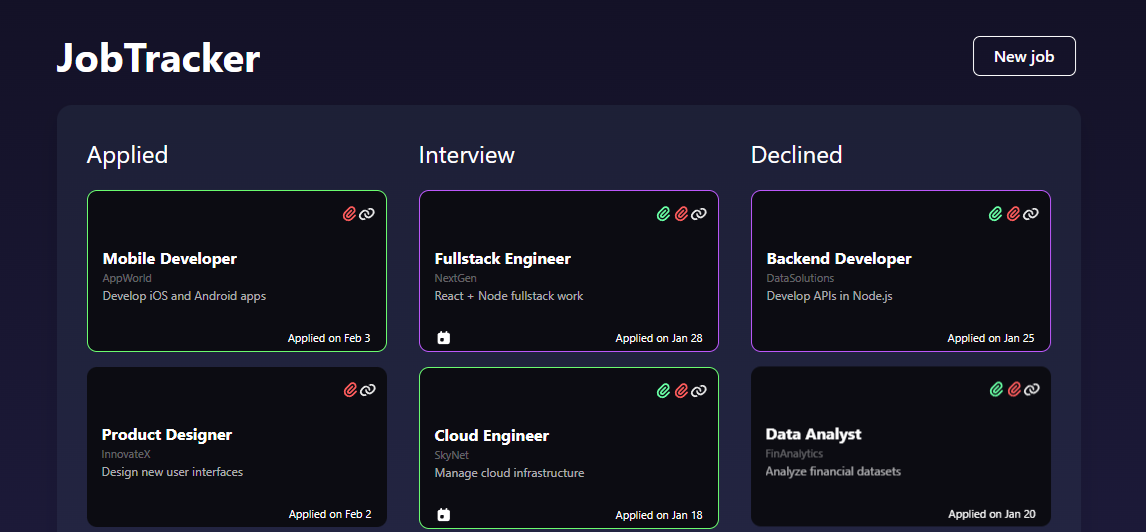
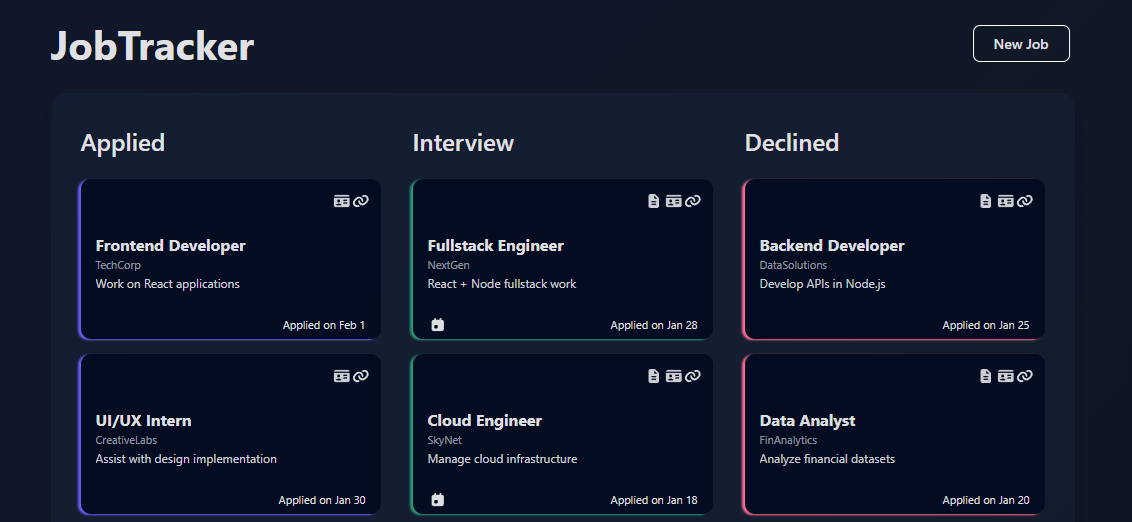
Refined color palette for a more professional look
Updated the application's color palette to achieve a cleaner and more professional visual design. Added distinct icons for CVs and cover letters to improve clarity and user experience.

diff --git a/frontend/src/components/ApplicationCard/ApplicationCard.tsx b/frontend/src/components/ApplicationCard/ApplicationCard.tsx
@@ -1,5 +1,8 @@
 import { FontAwesomeIcon } from '@fortawesome/react-fontawesome';
-import { faLink, faPaperclip, faCalendarDay } from '@fortawesome/free-solid-svg-icons';
+import { faLink, faFileLines, faIdCard, faCalendarDay } from '@fortawesome/free-solid-svg-icons';
+
+import { useState } from "react";
+
 import './ApplicationCard.css'
 import '../../styles/variables.css'
 
@@ -9,6 +12,7 @@ import '../../styles/variables.css'
  * Represents a single job application with associated metadata
  */
 type ApplicationCardProps = {
+    key: number;
     title: string;
     company: string;
     description: string;
@@ -18,6 +22,8 @@ type ApplicationCardProps = {
     cvUrl: string;
     letterUrl?: string;
     confidenceScore: number;
+    
+    onClick: () => void;
 };
 
 /**
@@ -38,9 +44,9 @@ function ApplicationCard({
     link,
     cvUrl,
     letterUrl,
-    confidenceScore
-}: ApplicationCardProps) {
-    
+    confidenceScore,
+    onClick
+}: ApplicationCardProps) {    
     // Format application date for display (e.g., "Jan 15")
     const formattedDate = new Date(applyingDate).toLocaleDateString("en-US", {
         month: "short",
@@ -58,7 +64,10 @@ function ApplicationCard({
     }
 
     return (
-    <article className={`application-card application-card--${scoreClass}`}>
+    <article 
+        className={`application-card application-card--${scoreClass}`}
+        onClick={onClick}
+    >
 
         {/* Document attachments section - links to external resources */}
         <div className={"application-card__attachments"}>
@@ -70,13 +79,13 @@ function ApplicationCard({
 
             {/* Link to uploaded CV/resume */}
             <a href={`${cvUrl}`} target="_blank">
-                <FontAwesomeIcon className="application-card__icon application-card__icon--cv" icon={faPaperclip} />
+                <FontAwesomeIcon className="application-card__icon application-card__icon--cv" icon={faIdCard} />
             </a>
 
             {/* Optional link to cover letter (if provided) */}
             {letterUrl ? (
                 <a href={`${letterUrl}`} target="_blank">
-                    <FontAwesomeIcon className="application-card__icon application-card__icon--letter" icon={faPaperclip} />
+                    <FontAwesomeIcon className="application-card__icon application-card__icon--letter" icon={faFileLines} />
                 </a>
             ) : null}
         </div>

diff --git a/frontend/src/components/ApplicationPanel/ApplicationPanel.tsx b/frontend/src/components/ApplicationPanel/ApplicationPanel.tsx
@@ -2,41 +2,32 @@ import { FontAwesomeIcon } from '@fortawesome/react-fontawesome';
 import { faLink } from '@fortawesome/free-solid-svg-icons';
 import './ApplicationPanel.css'
 import '../../styles/variables.css'
+import { Job } from '../../types/job';
 
 type ApplicationPanelProps = {
-    title:string;
-    company:string;
-    link:string;
-    status:string;
-    confidenceScore:number;
-    date:string;
+    job: Job;
 }
 
 function ApplicationPanel ({
-    title,
-    company,
-    link,
-    status,
-    confidenceScore,
-    date
+    job
 }:ApplicationPanelProps) {
 
     return (
         <div className="application-panel">
             <div className="application-panel__header">
                 <div className="application-panel__identity">
-                    <a href={`${link}`}>
+                    <a href={`${job.link}`}>
                         <FontAwesomeIcon className="application-panel__icon application-panel__icon--link" icon={faLink} />
                     </a>
                     <div className="application-panel__meta">
-                        <h2 className="application-panel__title">{title}</h2>
-                        <p className="application-panel__company">{company}</p>
+                        <h2 className="application-panel__title">{job.title}</h2>
+                        <p className="application-panel__company">{job.company}</p>
                     </div>
                 </div>
                 <div className="application-panel__line">
                     <span className="application-panel__badge">
-                        <p className="application-panel__status">{status}</p>
-                        <p className="application-panel__confidence">Confidence <b>{confidenceScore}%</b></p>
+                        <p className="application-panel__status">{job.status}</p>
+                        <p className="application-panel__confidence">Confidence <b>{job.confidenceScore}%</b></p>
                     </span>
                 </div>
             </div>
@@ -72,7 +63,7 @@ function ApplicationPanel ({
             </div>
             
             <div className="application-panel__footer">
-                <p className="application-panel__date">{date}</p>
+                <p className="application-panel__date">{job.applyingDate}</p>
             </div>
 
 

diff --git a/frontend/src/App.tsx b/frontend/src/App.tsx
@@ -6,10 +6,10 @@ import { mapJobFromApi } from './mappers/jobMapper'
 import './App.css'
 import ApplicationPanel from './components/ApplicationPanel/ApplicationPanel'
 
-
-function App() {
+const App = () => {
     const[jobs, setJobs] = useState<Job[]>([]);
     const[formVisible, setFormVisible] = useState(false)
+    const[selectedJob, setSelectedJob] = useState<number | null>(null)
 
       useEffect(() => {
           fetch('http://localhost:3000/api')
@@ -27,8 +27,21 @@ function App() {
         { id: 3, title: 'Declined', status: 'Declined' }
     ];
 
+  const handleSelectJob = (id: number) => {
+      setSelectedJob(id);
+  };
+
   return (
     <div>
+        {selectedJob && (
+          <>
+            <div className="blur-overlay" onClick={() => setSelectedJob(null)}></div>
+            <ApplicationPanel
+              job = {jobs.find(job => job.id === selectedJob)!}
+            />
+          </>
+        )}
+
         {formVisible && (
           <>
             <div className="blur-overlay" onClick={() => setFormVisible(false)}></div>
@@ -52,6 +65,8 @@ function App() {
                   title={column.title}
                   status={column.status}
                   jobs={jobs}
+
+                  onSelectJob={handleSelectJob}
               />
             ))
           }

diff --git a/frontend/src/styles/variables.css b/frontend/src/styles/variables.css
@@ -1,27 +1,35 @@
 :root{
 
-  --color-bg-start: #131126;
-  --color-bg-end: rgb(37 34 80 / 0.89);;
-
+  /*--color-bg-start: #131126;
+  --color-bg-end: rgb(37 34 80 / 0.89);*/
+  --color-bg-start: #0f172a;
+  --color-bg-middle: #111827;
+  --color-bg-end: #0b1120;
+    
   --color-text-primary: rgb(255 255 255 / 0.87);
   --color-text-secondary: rgb(255 255 255 / 0.80);
   --color-text-muted: rgb(255 255 255 / 0.55);
 
-  --color-surface-form: #100F17;
-  --color-surface-primary: #171621;
-  --color-surface-secondary: #232233;
+  --color-surface-form: #040c21;
+  --color-surface-primary: #151c2d75;
+  --color-surface-secondary: #232e4975;
   --color-surface-tertiary: #313145;
+
+  --color-surface-kanban: #3653731c;
 
   --color-input-text: #D2D1D4;
 
   --color-border-subtle: #92929228;
 
-  --color-attachment-cv: #ff6a93;
-  --color-attachment-letter: #83d1ff;
+  --color-attachment-cv: rgb(255 255 255 / 0.80);
+  --color-attachment-letter: rgb(255 255 255 / 0.80);
 
-  --color-confidence-good: 114 255 119;
-  --color-confidence-high: 137 63 255;
+  /*--color-confidence-good: 114 255 119;
+  --color-confidence-high: 137 63 255;*/
 
   --shadow-card: 0 6px 18px rgba(0,0,0,0.15);
 
 }
+
+
+

diff --git a/frontend/src/components/StatusColumn/StatusColumn.tsx b/frontend/src/components/StatusColumn/StatusColumn.tsx
@@ -6,9 +6,10 @@ type StatusColumnProps = {
     title: string;
     status: string;
     jobs: Job[];
+    onSelectJob: (id: number) => void;
 };
 
-function StatusColumn({ title, status, jobs }: StatusColumnProps) {
+function StatusColumn({ title, status, jobs, onSelectJob }: StatusColumnProps) {
     const filteredJobs = jobs.filter(job => job.status === status);
     return (
     <div className={`status-column status-column--${status}`}>
@@ -26,6 +27,8 @@ function StatusColumn({ title, status, jobs }: StatusColumnProps) {
                         cvUrl={job.cvUrl}
                         letterUrl={job.letterUrl}
                         confidenceScore={job.confidenceScore}
+
+                        onClick={() => onSelectJob(job.id)}
                     /> 
                 ))  
                 }

diff --git a/frontend/src/components/ApplicationCard/ApplicationCard.css b/frontend/src/components/ApplicationCard/ApplicationCard.css
@@ -1,12 +1,4 @@
 .application-card{
-    --application-background: #0c0c12;
-    --cv-color:#ff6a93;
-    --letter-color:#84ff88;
-    --link-color:#e7e7e7;
-
-    
-    --high-chances-score:#a45dfb93;
-
     margin: 15px 0px;
     padding: 10px 15px 0px 15px;  
     height:150px;
@@ -26,13 +18,13 @@
     cursor:pointer;
 }
 
-.application-card--good-chances-score{
+/*.application-card--good-chances-score{
     border:1px solid rgb(var(--color-confidence-good))
 }
 
 .application-card--high-chances-score{
     border:1px solid rgb(var(--color-confidence-high))
-}
+}*/
 
 .application-card * {
     text-align:left;
@@ -49,6 +41,7 @@
 
 .application-card__icon{
     font-size:14px;
+    margin: 0px 1px;
 }
 
 .application-card__icon--link{

diff --git a/frontend/src/index.css b/frontend/src/index.css
@@ -6,7 +6,15 @@
   color-scheme: dark;
   color: var(--color-text-primary);
 
-  background-image: linear-gradient(to bottom, #131126, #252250e2);
+  /*background-image: linear-gradient(to bottom, #131126, #252250e2);*/
+  /*background-color: var(--color-main-bg);*/
+
+  background: linear-gradient(
+    135deg,
+    var(--color-bg-start) 0%, 
+    var(--color-bg-middle) 50%,  
+    var(--color-bg-end) 100%  
+);
   
   font-synthesis: none;
   text-rendering: optimizeLegibility;
@@ -26,12 +34,13 @@ h1 {
 }
 
 h2 {
+    margin: 20px 0px;
     font-size:24px;
-    font-weight:400;
+    font-weight:600;
     text-align:left;
 }
 
-p, h2 {
+p {
   margin: 0;
 }
 

diff --git a/frontend/src/components/StatusColumn/StatusColumn.css b/frontend/src/components/StatusColumn/StatusColumn.css
@@ -1,6 +1,25 @@
+:root{
+    --color-applied-column: #6c5af7;
+    --color-interview-column: #269874;
+    --color-declined-column: #ff6a93;
+}
+
 .status-column {
     display: flex;
     flex-direction: column;
+}
+
+
+.status-column--Applied .application-card {
+    box-shadow: -3px 1px 2px 0px var(--color-applied-column);
+}
+
+.status-column--Interview .application-card {
+    box-shadow: -3px 1px 2px 0px var(--color-interview-column);
+}
+
+.status-column--Declined .application-card {
+    box-shadow: -3px 1px 2px 0px var(--color-declined-column);
 }
 
 

diff --git a/frontend/src/components/ApplicationForm/ApplicationForm.css b/frontend/src/components/ApplicationForm/ApplicationForm.css
@@ -4,8 +4,10 @@
     /*background: radial-gradient(ellipse at center, #100F17 0%, #100F17 100%); */
     background-color: var(--color-surface-form);
 
-    box-shadow: 0 0 4px 1px rgba(227, 227, 227, 0.5);
-    border-radius:15px;
+    /*box-shadow: 0 0 4px 1px rgba(227, 227, 227, 0.5);*/
+    border-radius:5px;
+    border: 1px solid var(--color-border-subtle);
+    box-shadow: 0 6px 18px rgba(0,0,0,0.15);
 
     min-width:fit-content;
     min-height:fit-content;

diff --git a/frontend/src/App.css b/frontend/src/App.css
@@ -45,7 +45,7 @@
 }
 
 .kanban-board{
-    background-color:#374a5f3b;
+    background-color:#3653731c;
     padding:10px 30px;
     border-radius:15px;
     box-shadow: 0 10px 25px rgba(0, 0, 0, 0.1);
